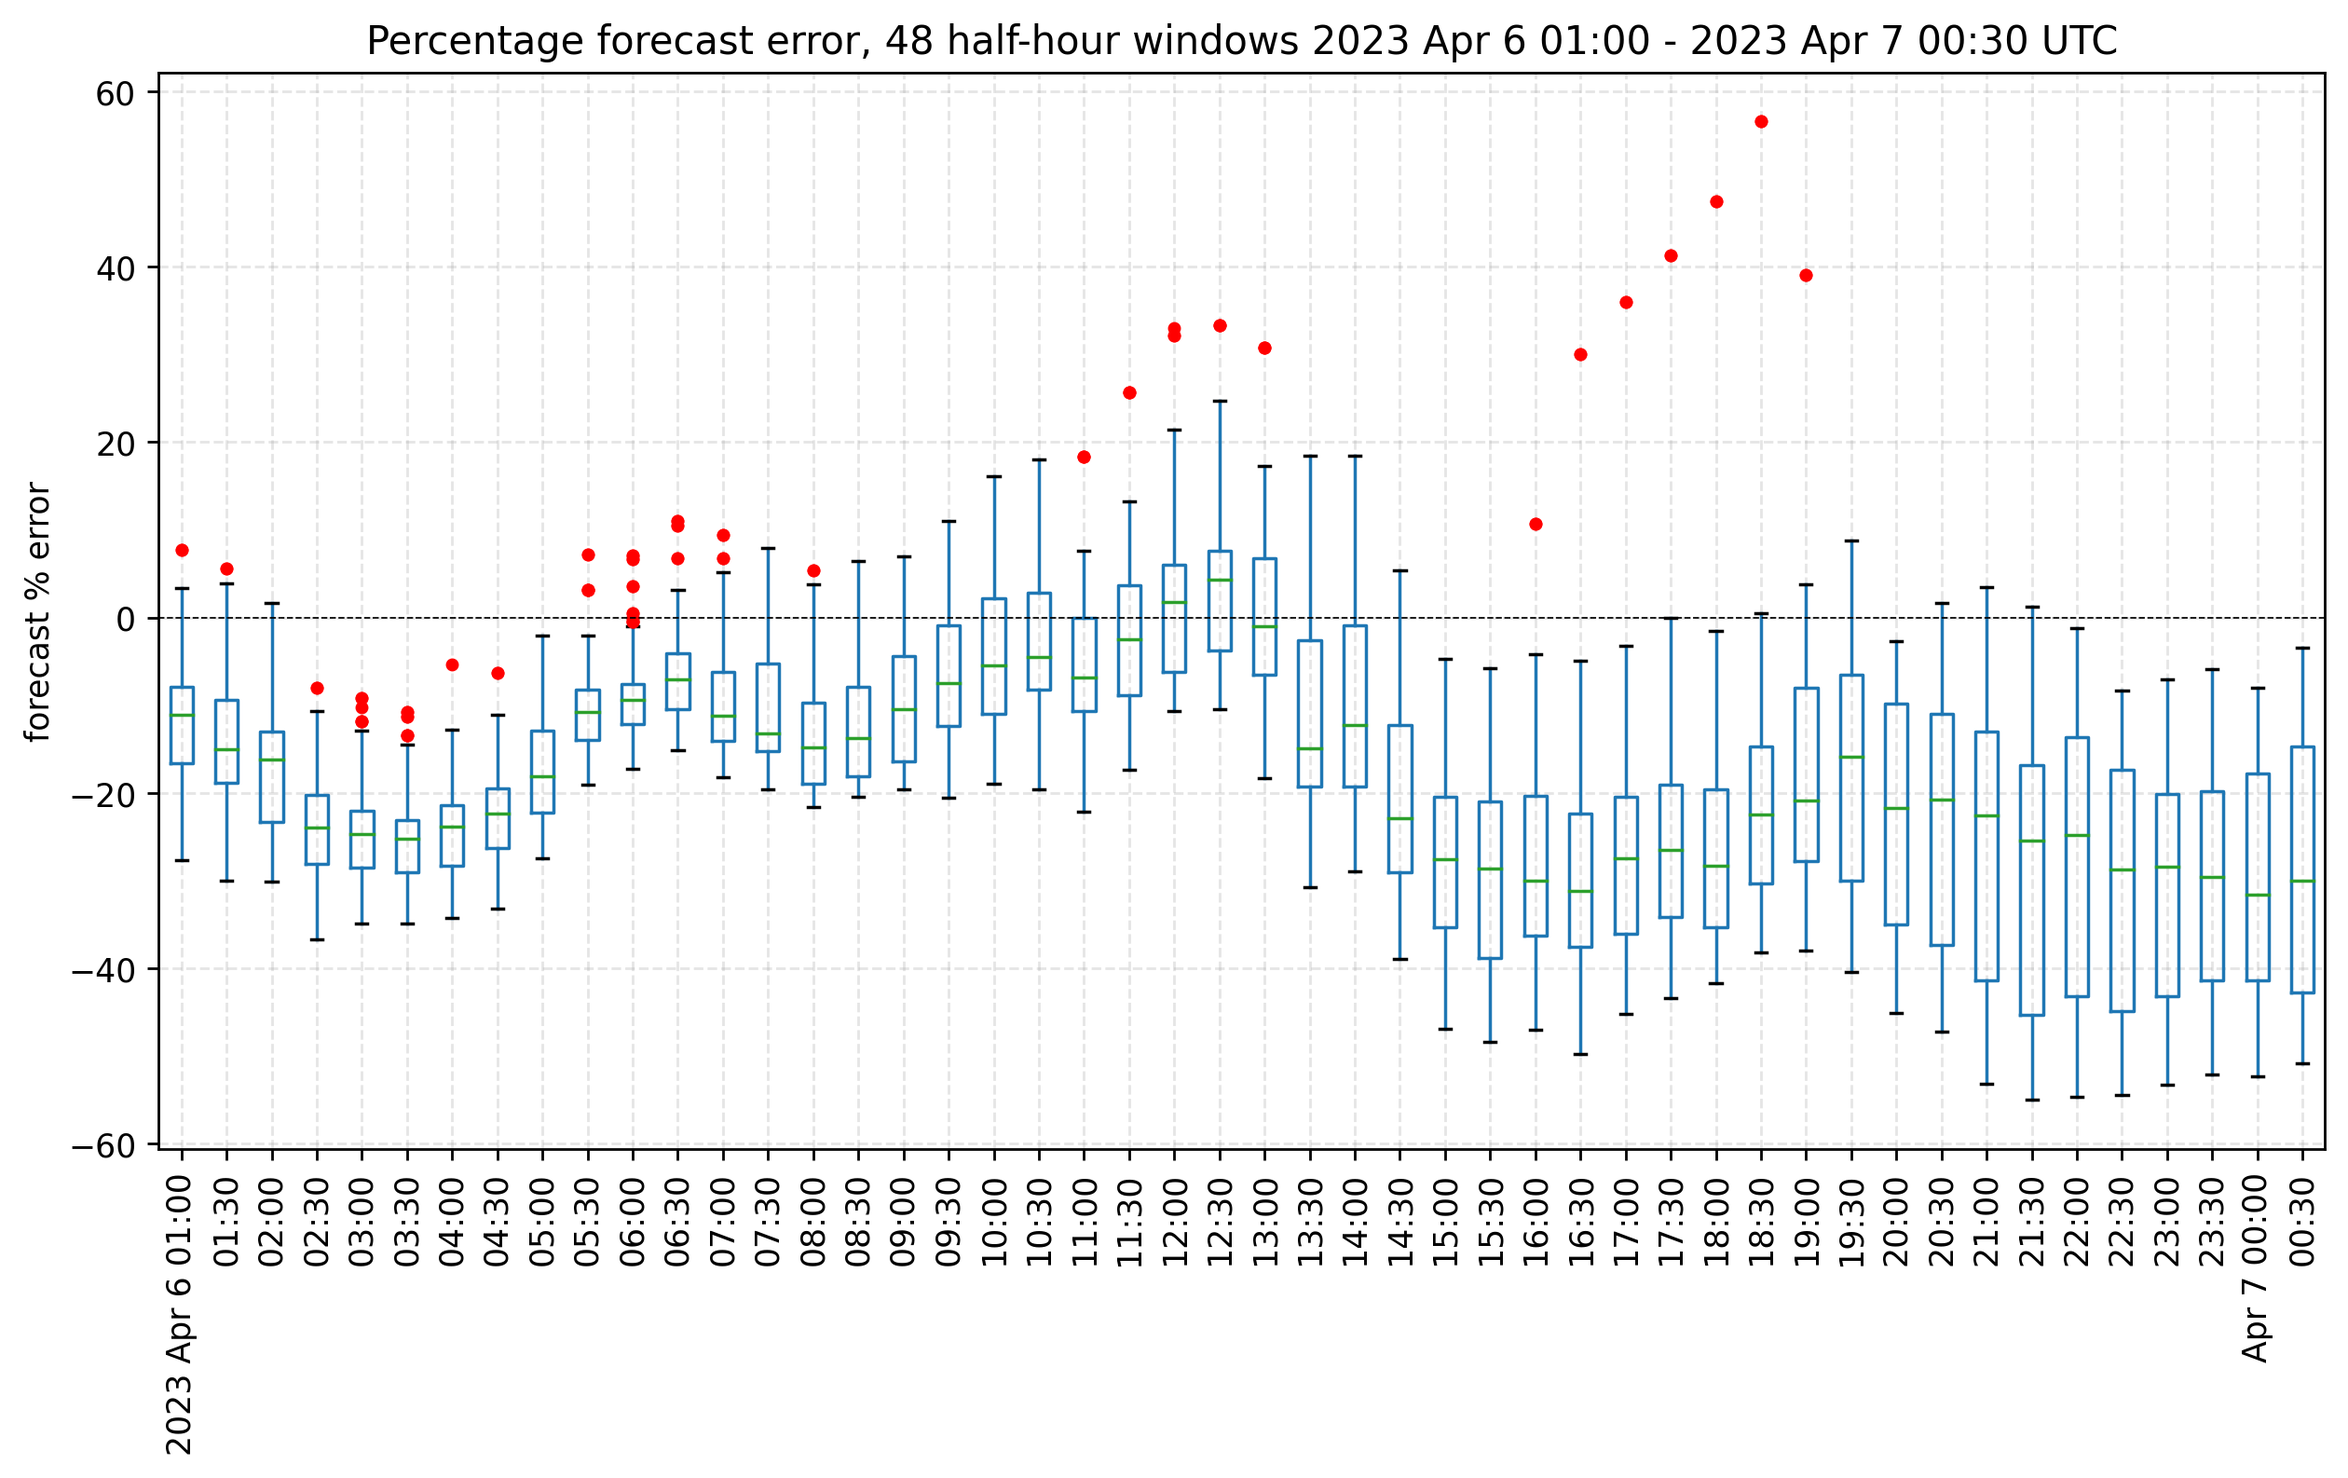
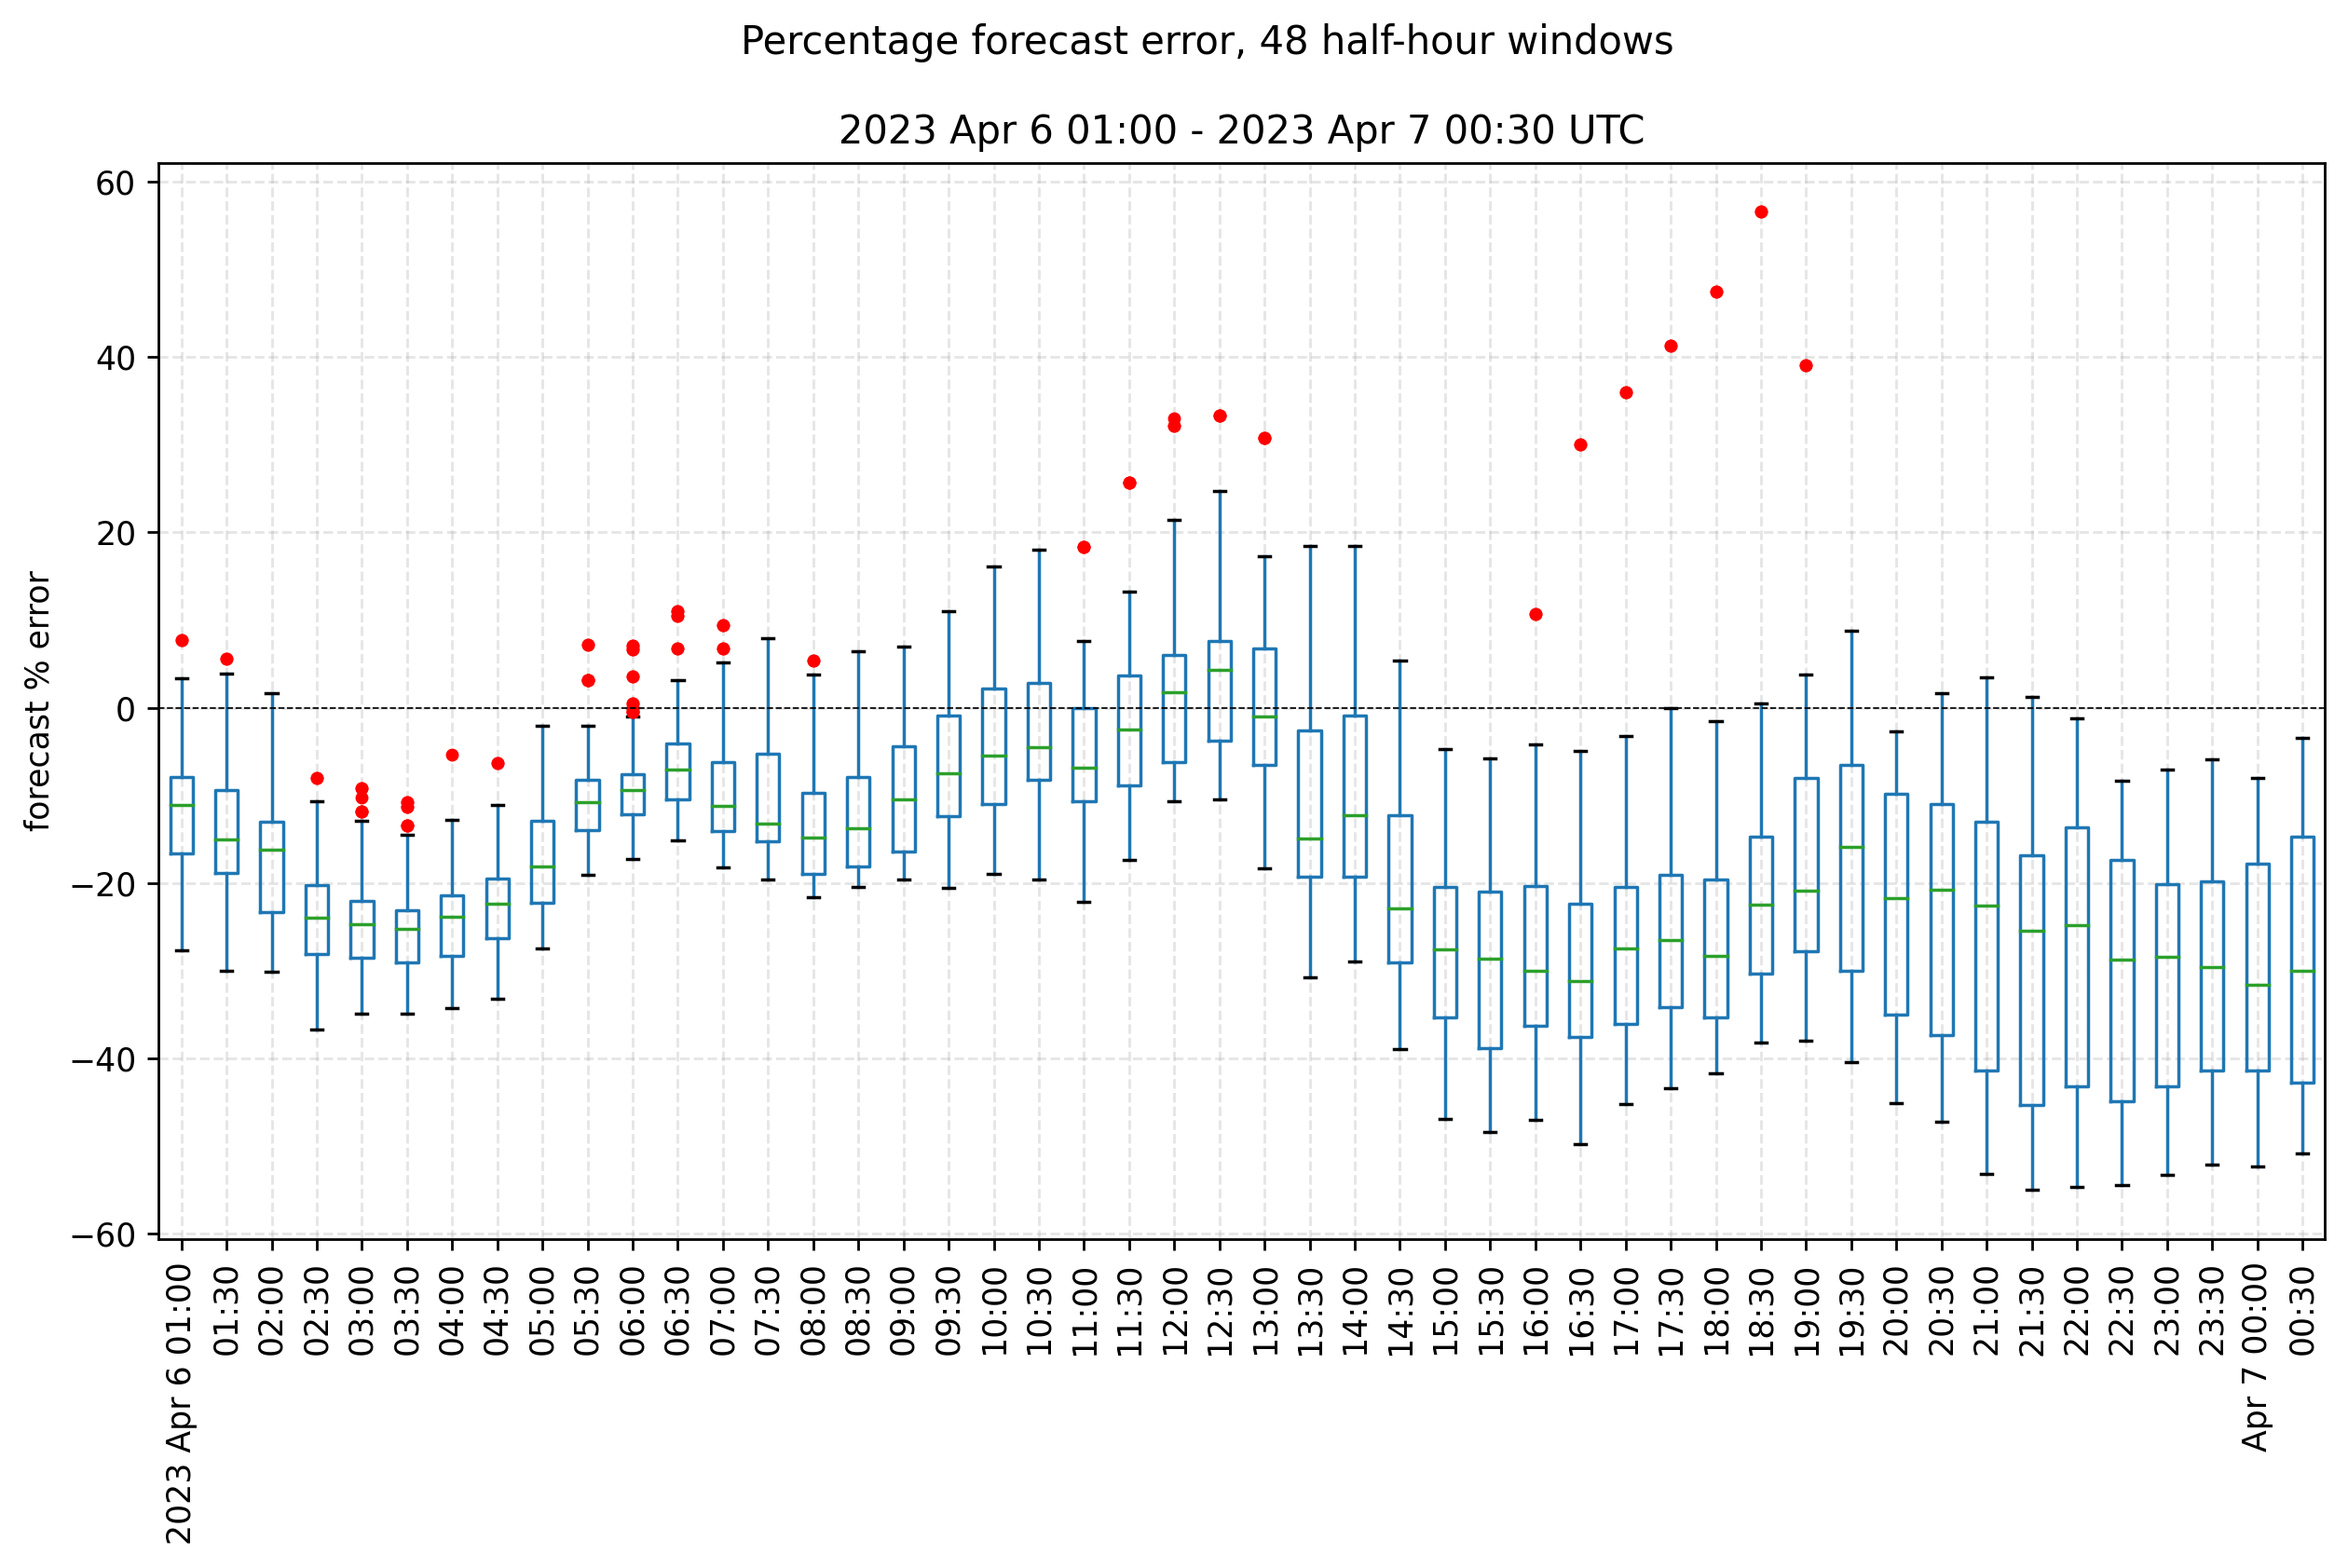
Replace Markdown in the README.md

diff --git a/scrape/graph.py b/scrape/graph.py
@@ -264,9 +264,8 @@ def generate_plot_ci_lines(
     )
     ax.set_xlabel("hours before forecasted window")
     ax.set_ylabel("carbon intensity")
-    ax.set_title(
-        f"Published CI forecast values, {len(dates)} half-hour windows {_ftime(dates[0])} - {_ftime(dates[-1])} UTC"
-    )
+    ax.set_title(f"{_ftime(dates[0])} - {_ftime(dates[-1])} UTC")
+    fig.suptitle(f"Published CI forecast values, {len(dates)} half-hour windows")
 
     return fig
 
@@ -308,26 +307,24 @@ def generate_boxplot_ci(
         label="actual",
     )
 
-    ax.set_title(
-        f"Carbon intensity forecast ranges, {len(dates)} half-hour windows {_ftime(dates[0])} - {_ftime(dates[-1])} UTC"
-    )
+    ax.set_title(f"{_ftime(dates[0])} - {_ftime(dates[-1])} UTC")
     ax.set_ylabel("carbon intensity")
-
     ax.grid("on", linestyle="--", alpha=0.33)
     ax.legend()
+    fig.suptitle(f"Carbon intensity forecast ranges, {len(dates)} half-hour windows")
 
     return fig
 
 
-def generate_boxplot_ci_future(
-    input_directory: str, hours_of_data: int = HOURS_OF_DATA
-):
-    """Generate boxplot of future CI forecasts. This data will be less complete than the past data."""
+# def generate_boxplot_ci_future(
+#     input_directory: str, hours_of_data: int = HOURS_OF_DATA
+# ):
+#     """Generate boxplot of future CI forecasts. This data will be less complete than the past data."""
 
-    plt.rcParams["figure.figsize"] = [12, 6]
-    plt.rcParams["figure.dpi"] = DPI
+#     plt.rcParams["figure.figsize"] = [12, 6]
+#     plt.rcParams["figure.dpi"] = DPI
 
-    df = _load_forward_summary(input_directory)
+#     df = _load_forward_summary(input_directory)
 
 
 def generate_boxplot_ci_error(
@@ -361,9 +358,7 @@ def generate_boxplot_ci_error(
 
     fig, ax = plt.subplots(1, 1)
     _ = df.T.boxplot(rot=90, sym="r.")
-    ax.set_title(
-        f"Percentage forecast error, {len(dates)} half-hour windows {_ftime(dates[0])} - {_ftime(dates[-1])} UTC"
-    )
+    ax.set_title(f"{_ftime(dates[0])} - {_ftime(dates[-1])} UTC")
     ax.set_ylabel("forecast % error")
     ax.grid("on", linestyle="--", alpha=0.33)
     ax.hlines(
@@ -374,6 +369,8 @@ def generate_boxplot_ci_error(
         linestyle="--",
         linewidth=0.5,
     )
+
+    fig.suptitle(f"Percentage forecast error, {len(dates)} half-hour windows")
 
     return fig
 
@@ -389,38 +386,18 @@ def generate_boxplot_ci_error_for_days(
     plt.rcParams["figure.figsize"] = [12, 6]
     plt.rcParams["figure.dpi"] = DPI
 
-    if days:
-        # Get the earliest time from a given number of days ago
-        df = df.loc[get_dates_days(df, days)].copy()
+    # Get the earliest time from a given number of days ago
+    df = df.loc[get_dates_days(df, days)].copy()
 
     # All days from then to now
     dff = df[["intensity.forecast", "intensity.actual.final"]].copy()
 
     # Percentage err
-    dfferr = 100.0 * (
+    df_pc_err = 100.0 * (
         dff["intensity.forecast"].sub(dff["intensity.actual.final"], axis=0)
     ).div(dff["intensity.actual.final"], axis=0)
-    # only pre-timepoint forecasts
-    dfferr = dfferr[[c for c in dfferr.columns if float(c) >= 0.0]]
 
-    dff = dfferr.copy()
-    dff.index = dff.index.date
-
-    forecast_cols = dff.columns
-
-    # Add a helper column to count occurrences of each label
-    dff["count_per_day"] = dff.groupby(dff.index).cumcount()
-
-    # pivot into a multiindex
-    result = dff.pivot_table(
-        index=dff.index,
-        columns="count_per_day",
-        values=list(forecast_cols),
-        aggfunc="first",
-    )
-
-    # flatten
-    result.columns = [f"{level1}_{level2+1}" for level1, level2 in result.columns]
+    result = _aggregate_per_day(df_pc_err)
 
     fig, ax = plt.subplots(1, 1)
     _ = result.T.boxplot(sym="r.")
@@ -471,9 +448,7 @@ def generate_boxplot_ci_error_per_hour(
 
     fig, ax = plt.subplots(1, 1)
     _ = dfferr.boxplot(rot=90, sym="r.")
-    ax.set_title(
-        f"Percentage forecast error per half-hour before forecasted window, {_ftime(dates[0])} - {_ftime(dates[-1])} UTC"
-    )
+    ax.set_title(f"{_ftime(dates[0])} - {_ftime(dates[-1])} UTC")
     ax.set_ylabel("forecast % error")
     ax.grid("on", linestyle="--", alpha=0.33)
     ax.hlines(
@@ -484,6 +459,8 @@ def generate_boxplot_ci_error_per_hour(
         linestyle="--",
         linewidth=0.5,
     )
+
+    fig.suptitle("Percentage forecast error per half-hour before forecasted window")
 
     return fig
 
@@ -498,7 +475,8 @@ def generate_boxplot_ci_error_per_hour(
 #         ax.text(2, 6, r'an equation: $E=mc^2$', fontsize=15)
 
 
-def _get_stats_per_day(df: pd.DataFrame) -> pd.DataFrame:
+def _aggregate_per_day(df: pd.DataFrame) -> pd.DataFrame:
+    """..."""
     df_err = df.copy()
 
     # Only pre-timepoint forecasts
@@ -521,6 +499,11 @@ def _get_stats_per_day(df: pd.DataFrame) -> pd.DataFrame:
 
     # flatten
     result.columns = [f"{level1}_{level2+1}" for level1, level2 in result.columns]
+    return result
+
+
+def _get_stats_per_day(df: pd.DataFrame) -> pd.DataFrame:
+    result = _aggregate_per_day(df)
 
     stats = result.T.agg(
         ["count", "mean", "std", "sem", confidence_95, confidence_99], axis=0
@@ -582,6 +565,43 @@ def generate_markdown_table(df: pd.DataFrame, days: int = 7) -> str:
     return stats_corr.to_markdown(), stats_pc_corr.to_markdown()
 
 
+def replace_markdown_section(
+    filepath: str, section: str, text: str, pad_before="\n\n", pad_after="\n\n"
+) -> None:
+    """Replace a section in a markdown file with new text.
+
+    Args:
+        filepath (str): Path to markdown file
+        section (str): Section header to replace
+        text (str): Text to replace section with
+    """
+    with open(filepath, "r") as f:
+        lines = f.readlines()
+
+    # Find the start and end of the section
+    start = 0
+    end = start
+    for i, line in enumerate(lines):
+        if line.startswith(section):
+            start = i
+            end = i
+            continue
+        if line.startswith("#") and start > 0:
+            end = i
+            break
+
+    # Replace the section
+    before = lines[:start]
+    after = lines[end:]
+
+    new_section = section + pad_before + text + pad_after
+
+    result = before + [new_section] + after
+
+    with open(filepath, "w") as f:
+        f.writelines(result)
+
+
 def create_graph_images(
     input_directory: str,
     output_directory: str = None,
@@ -623,4 +643,7 @@ def create_graph_images(
     # save_figure(fig, output_directory, "text_boxes.png")
 
     md_stats, md_stats_pc = generate_markdown_table(summaries_merged_df, days=days)
-    print(md_stats, md_stats_pc)
+
+    readme_filepath = os.path.join(os.path.abspath(output_directory), "..", "README.md")
+    replace_markdown_section(readme_filepath, "#### Error, gCO2/kWh", md_stats)
+    replace_markdown_section(readme_filepath, "#### Percentage error", md_stats_pc)

diff --git a/README.md b/README.md
@@ -4,7 +4,7 @@ Tracking differences between the [UK National Grid's Carbon Intensity forecast](
 
 ## What is this?
 
-The UK's National Grid Electricity System Operator (NGESO) publishes [an API](https://carbon-intensity.github.io/api-definitions/#carbon-intensity-api-v2-0-0) showing half-hourly carbon intensity (gCO2/kWh) in different GB regions, together with a 48-hour forecast. The national data is based upon real and estimated metered generation statistics and values representing the relative carbon intensity of different energy sources. Regional data is based upon forecasted generation, consumption, and a model describing inter-region interaction.
+The UK's National Grid Electricity System Operator (NGESO) publishes [an API](https://carbon-intensity.github.io/api-definitions/#carbon-intensity-api-v2-0-0) showing half-hourly carbon intensity (gCO2/kWh), together with a 48-hour forecast. The national data is based upon real and estimated metered generation statistics and values representing the relative carbon intensity of different energy sources. Regional data is based upon forecasted generation, consumption, and a model describing inter-region interaction.
 
 The forecasts are updated every half hour, but the API does not keep historical forecasts; they're unavailable or overwritten. How reliable are they?
 
@@ -37,23 +37,23 @@ The API site shows [a graph](https://carbonintensity.org.uk/#graphs) of the fore
 
 #### Error, gCO2/kWh
 
-| error, gCO_2/kWh   |   mean |    std |    sem | confidence_95    |
-|:-------------------|-------:|-------:|-------:|:-----------------|
-| 2023-03-29         |  -5.85 |  16.48 |   0.26 | (-6.36, -5.33)   |
-| 2023-03-30         |  -4.89 |  22.01 |   0.43 | (-5.73, -4.04)   |
-| 2023-04-03         |  -1    | nan    | nan    | (nan, nan)       |
-| 2023-04-04         | -12.29 |  46.03 |   1.42 | (-15.09, -9.5)   |
-| 2023-04-05         | -24.73 |  34.76 |   0.82 | (-26.34, -23.12) |
+|            |   mean |    std |    sem | confidence_95    |
+|:-----------|-------:|-------:|-------:|:-----------------|
+| 2023-04-03 |  -1    | nan    | nan    | (nan, nan)       |
+| 2023-04-04 | -12.29 |  46.03 |   1.42 | (-15.09, -9.5)   |
+| 2023-04-05 | -26.29 |  28.4  |   0.51 | (-27.28, -25.29) |
+| 2023-04-06 | -30.31 |  25.13 |   0.39 | (-31.08, -29.55) |
+| 2023-04-07 | -49.49 |  24.55 |   1.52 | (-52.49, -46.49) |
 
 #### Percentage error
 
-| error, %   |   mean |    std |    sem | confidence_95    |
+|            |   mean |    std |    sem | confidence_95    |
 |:-----------|-------:|-------:|-------:|:-----------------|
-| 2023-03-29 |  -2.26 |  17.56 |   0.28 | (-2.81, -1.71)   |
-| 2023-03-30 |  -1.32 |  24.17 |   0.47 | (-2.25, -0.4)    |
 | 2023-04-03 |  -0.58 | nan    | nan    | (nan, nan)       |
 | 2023-04-04 |  -2.61 |  28.1  |   0.87 | (-4.31, -0.9)    |
-| 2023-04-05 | -11.5  |  16.86 |   0.4  | (-12.28, -10.72) |
+| 2023-04-05 | -11.87 |  13.65 |   0.24 | (-12.35, -11.39) |
+| 2023-04-06 | -17.27 |  14.56 |   0.23 | (-17.71, -16.82) |
+| 2023-04-07 | -28.6  |  14.18 |   0.88 | (-30.33, -26.87) |
 
 ### 24 hours
 
